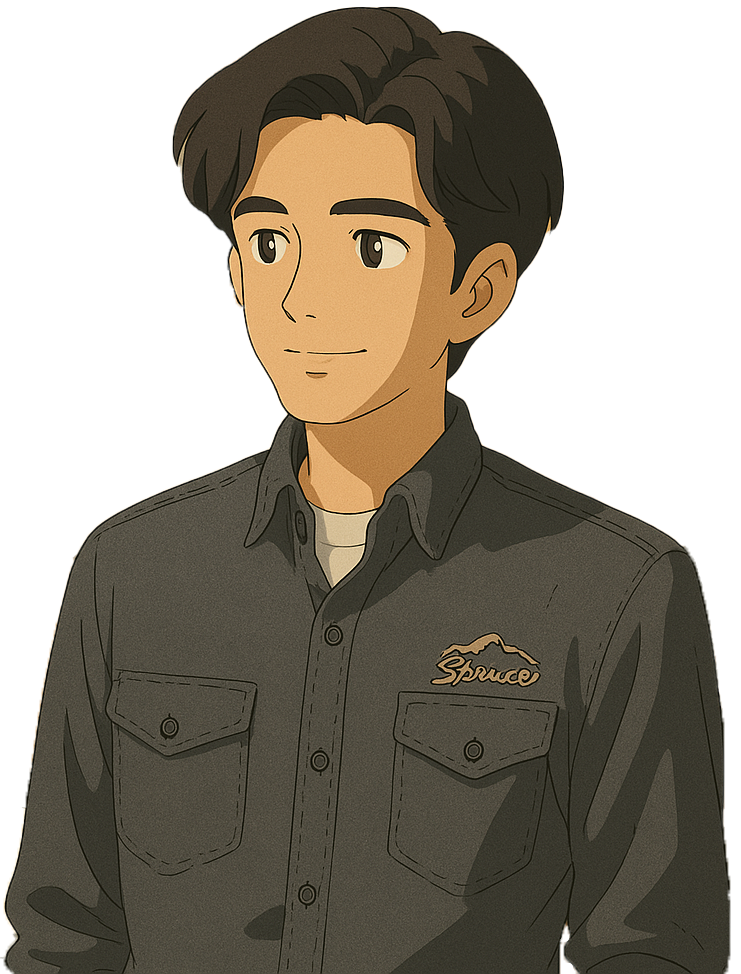
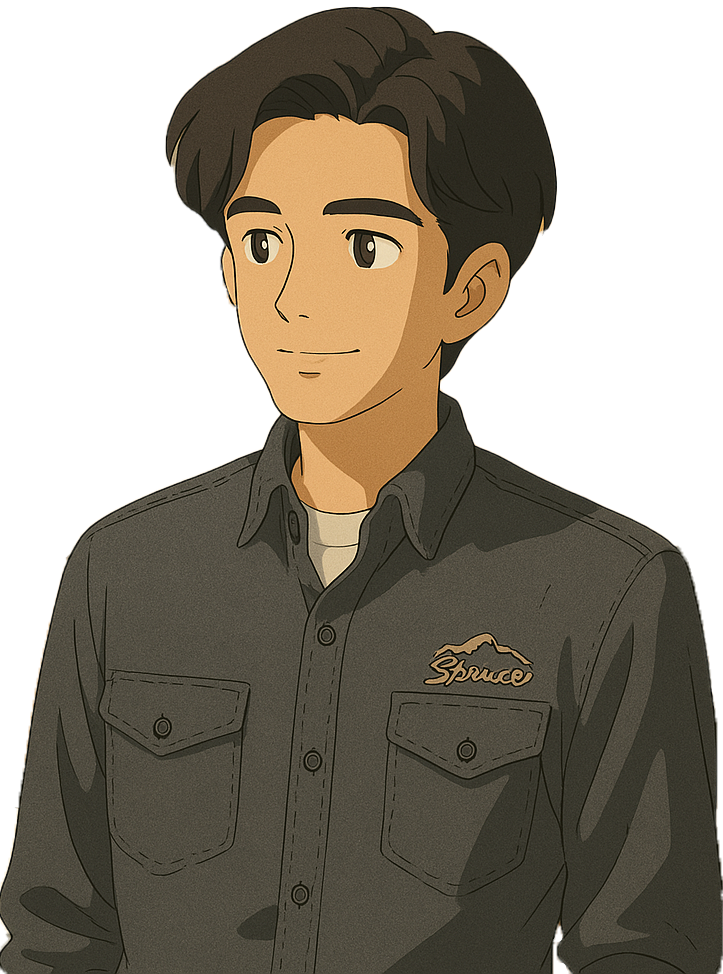
update personal card component

diff --git a/components/Header/PersonalCard/PersonalCard.js b/components/Header/PersonalCard/PersonalCard.js
@@ -7,7 +7,7 @@ export default function PersonalCard() {
   return (
     <div className={styles.cardContainer}>
       <div className={styles.textContainer}>
-        <span>Hi I am</span>
+        <span className={styles.textSpan}>Hi I am</span>
         <h2>Mohammad Saeed Afshari</h2>
         <h1>Developer</h1>
         <div className={styles.iconContainer}>
@@ -39,15 +39,15 @@ export default function PersonalCard() {
         <div className={styles.xpContainer}>
           <div className={styles.xpTextContainer}>
             <span className={styles.xpNum}>5+</span>
-            <span>Experience</span>
+            <span className={styles.textSpan}>Experience</span>
           </div>
           <div className={styles.xpTextContainerMid}>
             <span className={styles.xpNum}>20+</span>
-            <span>Projects done</span>
+            <span className={styles.textSpan}>Projects done</span>
           </div>
           <div className={styles.xpTextContainer}>
             <span className={styles.xpNum}>80+</span>
-            <span>Happy Clients</span>
+            <span className={styles.textSpan}>Happy Clients</span>
           </div>
         </div>
       </div>

diff --git a/styles/prsonalcard.module.css b/styles/prsonalcard.module.css
@@ -128,7 +128,15 @@
     border-right: 3px solid var(--dark_Text_secondary);
 }
 
-.profileContainer img{
-    width: 90%;
+.textSpan{
+    color: var(--dark_Text_secondary);
+}
+
+.profileContainer{
+    width: 40%;
     margin-top: 40px;
+}
+
+.profileContainer img{
+    width: 100%;
 }
